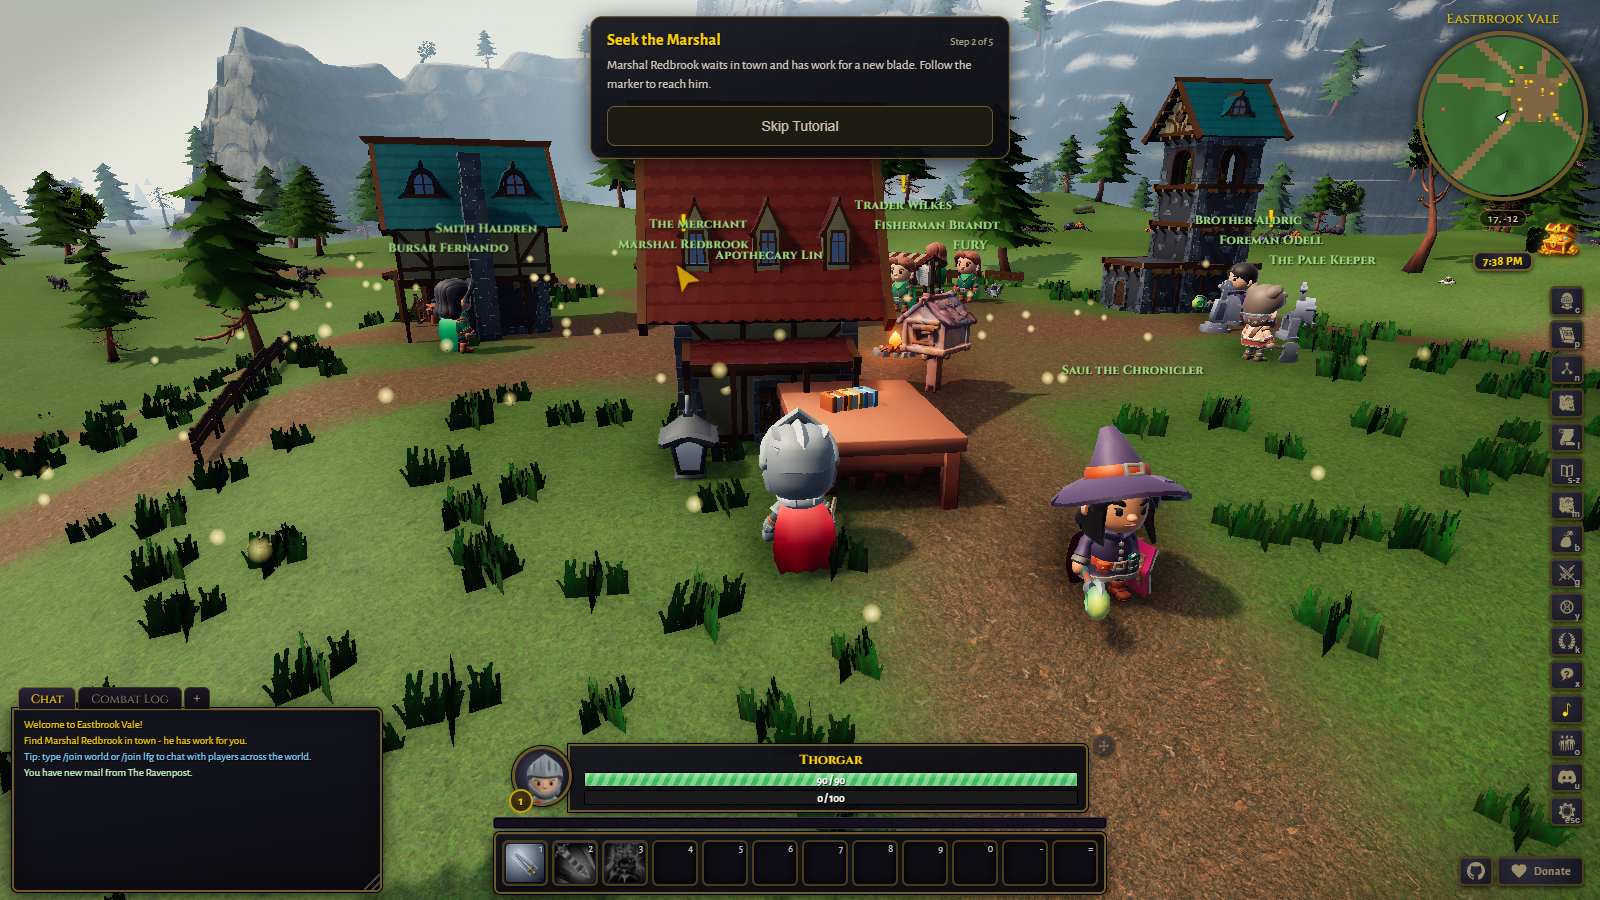
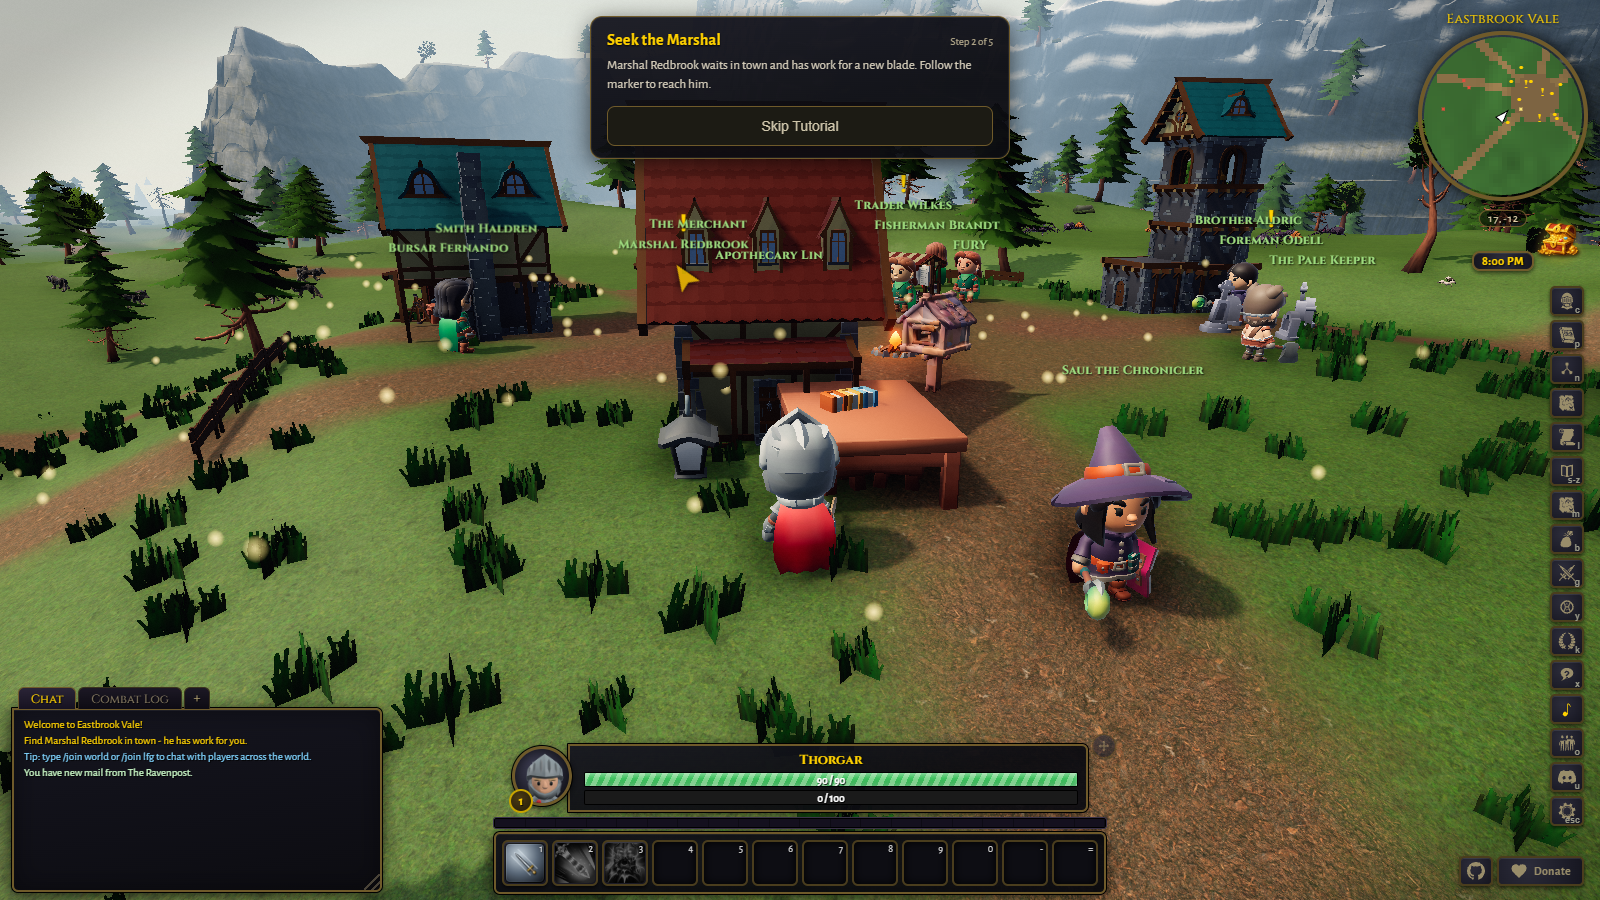
feat(render): light the inn porch lantern with the shared warm glass core
Matches the mine entrance wall lantern so the porch reads lit at night;
refreshes the inn porch after-screenshot.

diff --git a/src/render/props.ts b/src/render/props.ts
@@ -850,6 +850,12 @@ export function buildProps(seed: number, delveLabel?: (delveId: string) => strin
         scale: 1.4,
       });
       addParts(g, 'lanternStanding', { x: -b.w * 0.3, z: b.d / 2 + 0.7, scale: 1.6 });
+      // warm glass core so the porch lantern reads lit at night, matching the
+      // mine entrance wall lantern
+      const glass = new THREE.Mesh(new THREE.CylinderGeometry(0.07, 0.08, 0.2, 6), lanternMat);
+      glass.position.set(-b.w * 0.3, 0.55, b.d / 2 + 0.7);
+      noShadow.add(glass);
+      g.add(glass);
     }
     g.position.set(b.x, y - 0.12, b.z);
     g.rotation.y = b.rot;
